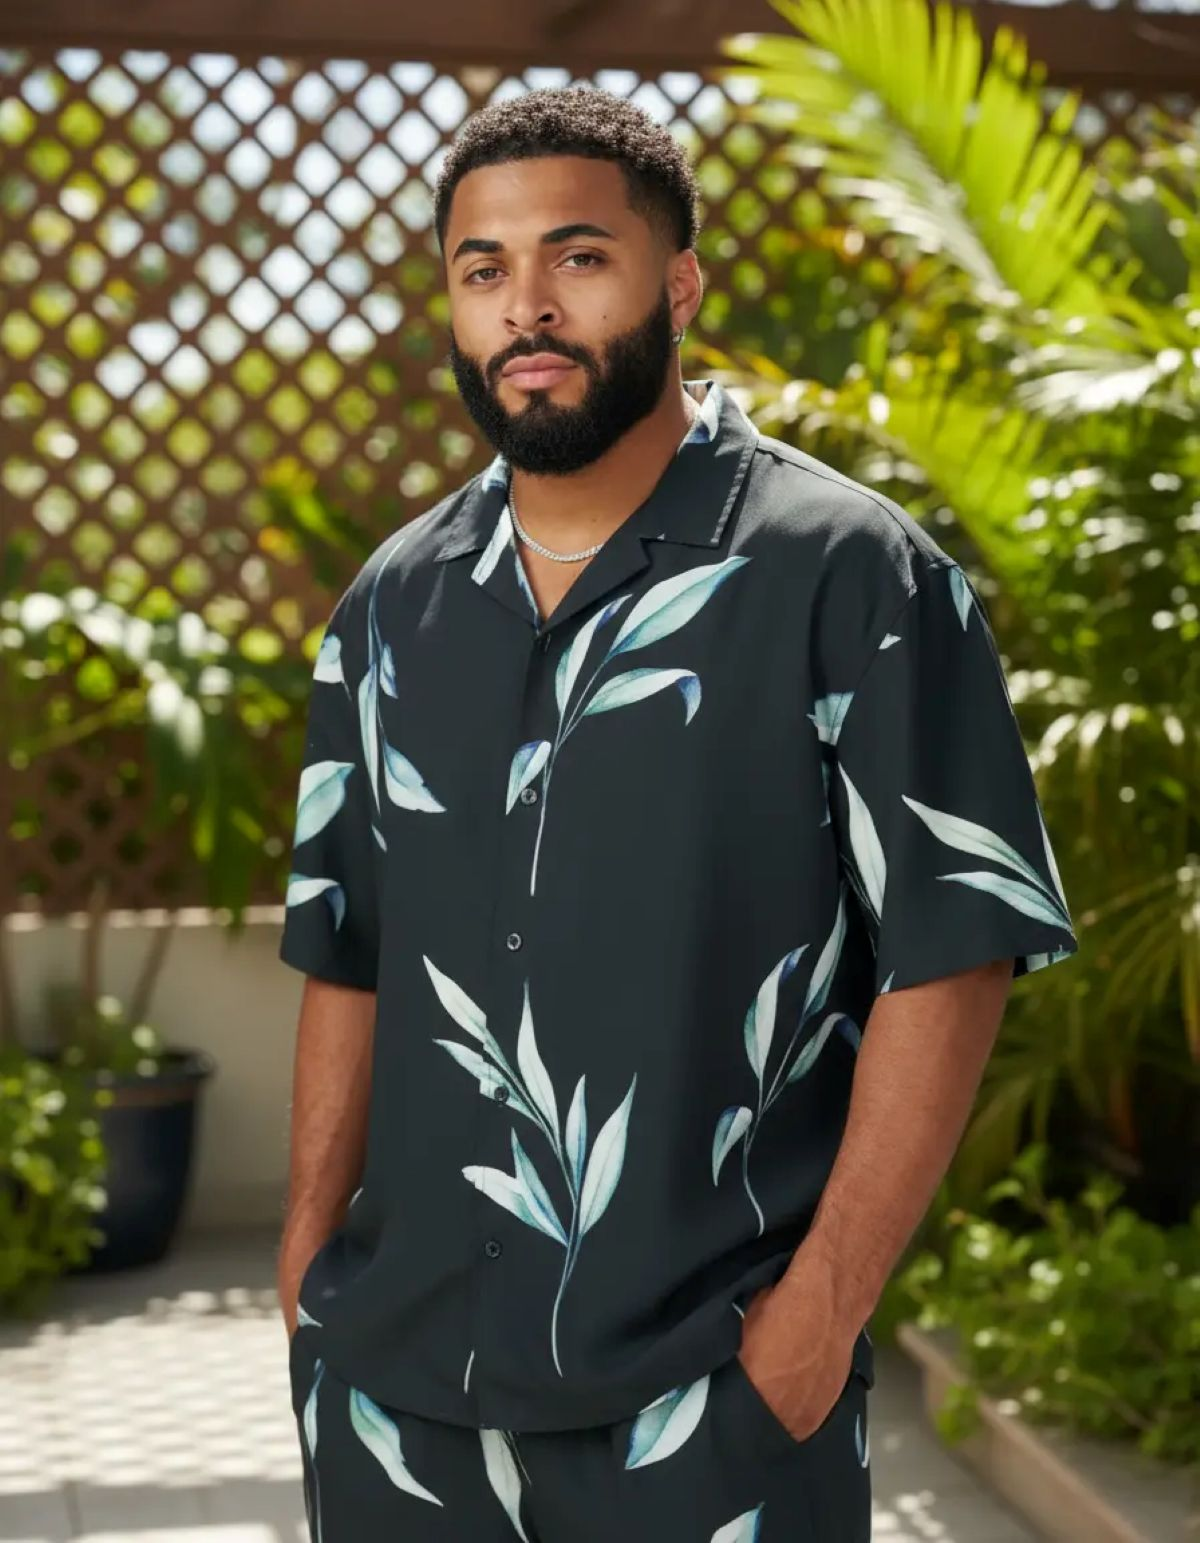
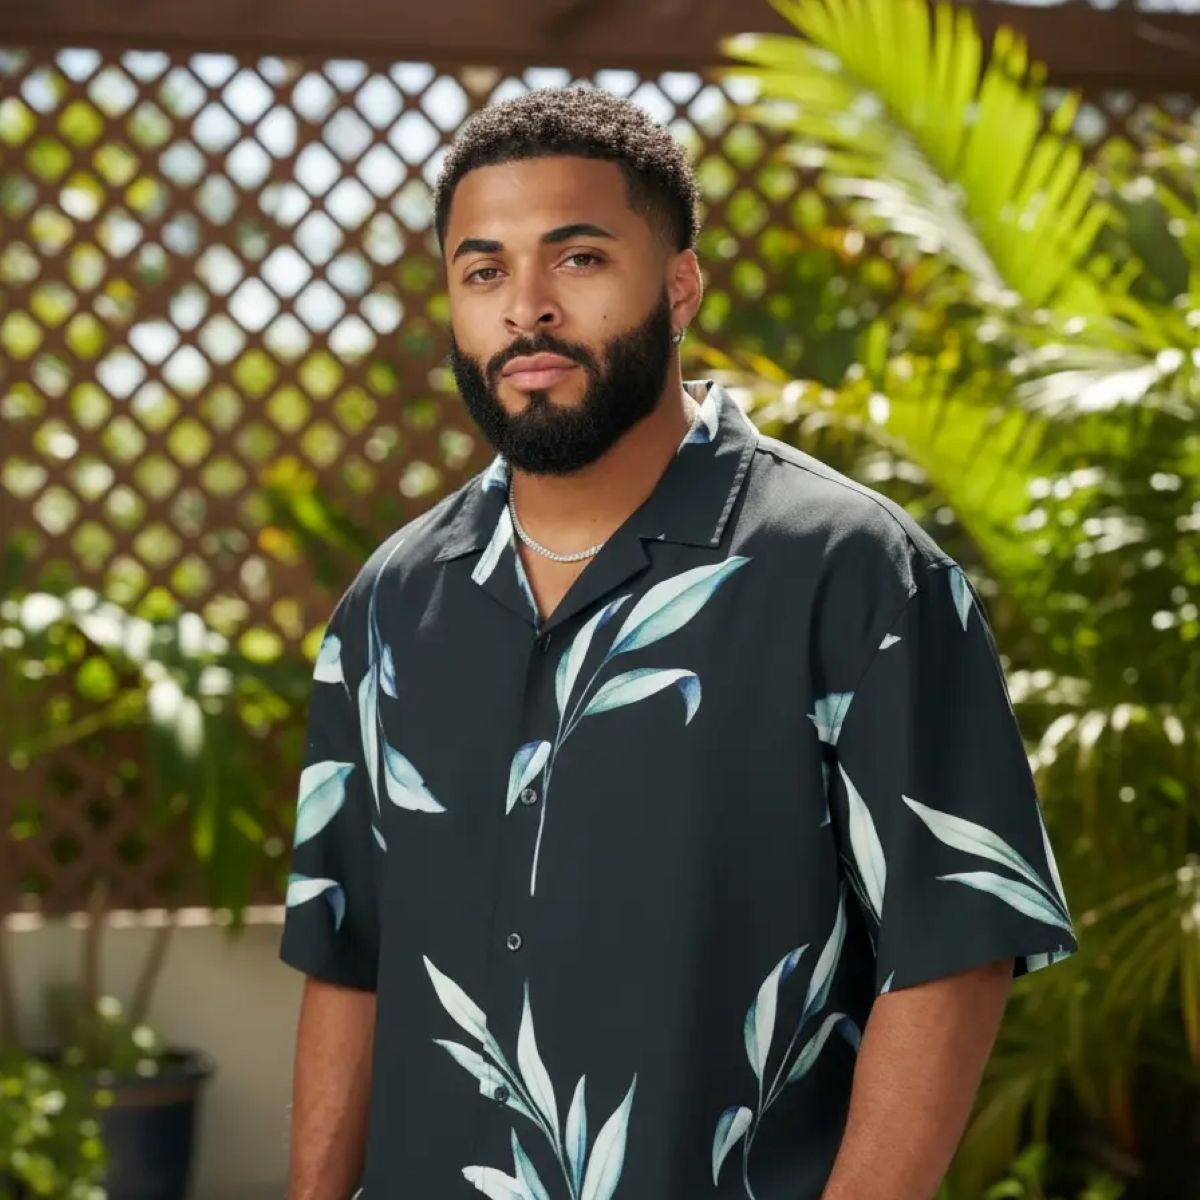
Actualizar 10 nov

diff --git a/caballero.html b/caballero.html
@@ -81,12 +81,6 @@
   <main class="productos">
 
     <!-- Cambia la imagen, nombre, precio y tallas. -->
-    <article class="producto">
-      <img src="compresion_mlbyla.jpg" alt="Compresion manga larga blanca">
-      <h2>Compresion YOUNGLA manga larga blanca</h2>
-      <p class="precio">$280.00 MXN</p>
-      <p class="tallas">Uni talla</p>
-    </article>
 
     <article class="producto">
 <img src="pants_ccdfyne.jpg" alt="Pants cafe">      
@@ -101,6 +95,15 @@
       <p class="precio">$500.00 MXN</p>
       <p class="tallas">Uni talla</p>
     </article>
+
+    <article class="producto">
+<img src="pants_adfyne.jpg" alt="Pants azul">      
+<h2>Pants cargo DFYNE azul</h2>
+      <p class="precio">$500.00 MXN</p>
+      <p class="tallas">Uni talla</p>
+    </article>
+
+
 
      <article class="producto">
 <img src="pants_gyla.jpg" alt="Pants gris">      

diff --git a/dama.html b/dama.html
@@ -119,13 +119,6 @@
     </article>
 
     <article class="producto">
-      <img src="conjuntos_morado.jpg" alt="Conjunto morado">
-      <h2>Conjunto DFYNE impact morado</h2>
-      <p class="precio">$550.00 MXN</p>
-      <p class="tallas">Tallas disponibles: S.</p>
-    </article>
-
-    <article class="producto">
       <img src="conjuntos_rosa.jpg" alt="Conjunto rosa">
       <h2>Conjunto DFYNE impact rosa</h2>
       <p class="precio">$550.00 MXN</p>
